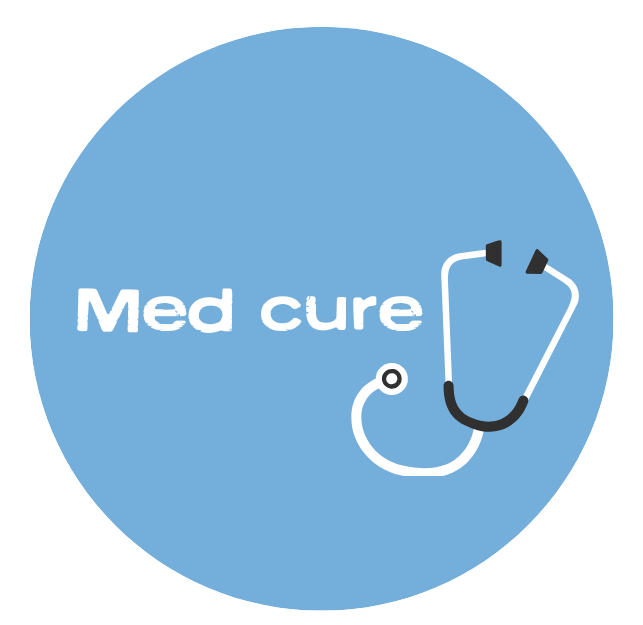
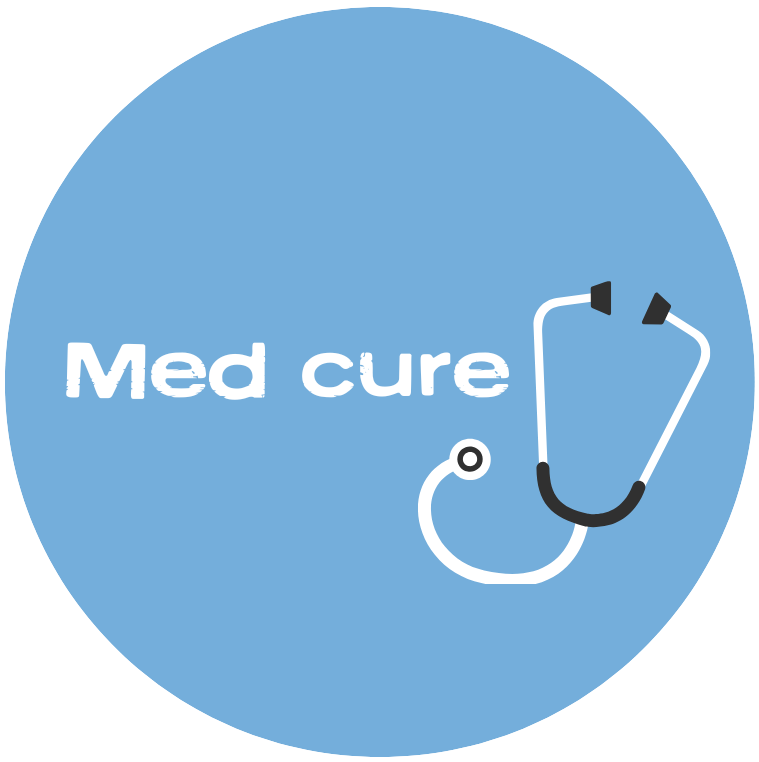
salvandoprojetooodnv

Changed region(s): [[0.0, 0.0, 0.9953, 1.0], [0.5288, 0.5776, 0.6532, 0.7296], [0.591, 0.7296, 0.6221, 0.76]]

diff --git a/projeto_02/src/app/components/Header/header.module.css b/projeto_02/src/app/components/Header/header.module.css
@@ -1,79 +1,48 @@
-.logo{
-    display: flex;
-    margin-left: 30px;
-}
 
 .imagem{
     border-radius: 35px;
     margin-top: 20px;
-}
-
-.meuHeader{
-    margin-top: 10px;
-    display: flex;
-    justify-content: center;
-    background-color: var(--cor-de-fundo-menu);
-    padding:10px 15px;
-    position: relative;
-    text-align: center;
+    margin-bottom: 20px;
 }
 
 .Pegatudo{
-    text-align: center;
-    background-color: rgb(127, 229, 255);
+    padding-left: 20px;
+    display: flex;
+    background-color: rgb(73, 134, 192);
 }
 
 /* NAVEGAÇÃO*/
 .nav{
     display: flex;
-    align-items: center;
-    text-align: center;
-    transition: all 0.5s ease;
-    transform: translateY(-10px);
-    opacity: 1;
-    visibility: visible;
-    transform: translateY(0); 
-    flex-direction: row;
+    justify-content: center;
 
-}    
-.nav_active{
-    /* */
-    display: none;
 }
 
 .ul{
+    margin-top: 20px;
     display: flex;
-    padding: 0;
-    text-align: center;
-    flex-direction: row;
-    gap: 2rem;
-    padding-left: 0px;
-    margin-bottom: 10px;
+    justify-items: center;
 }
 .li{
-    list-style-type: none;
-    text-align: center;
     display: flex;
-    margin-left: 450px;
-    justify-content: center;
-    justify-items: center;
-    margin-bottom: 20px;
+    margin-left: 50px;
+    margin-bottom: 10px;
 }
 .link{
-    color: rgb(36, 88, 184);
+    color: rgb(28, 58, 116);
     font-weight: 700;
     transition: color 0.3s ease;
     font-size: 17px;
-    text-align: center;
+    display: flex;
 }
 .link:hover{
-    color: #444baf;
+    color: #b0b8c4;
 }
+
 .container_menuMenor{
-    display: none;
+    display: flex;
     cursor: pointer;
     font-size: 2rem;
-
 }
 
 @media(max-width:600px){
@@ -83,11 +52,8 @@
      }
     .nav_active{
         display: flex;
-        text-align: center;
         visibility: visible;
         transform: none;
-        flex-direction: column;
-        position: absolute;
         top: 40px;
         right: 0;
         width: 50%;
@@ -99,13 +65,9 @@
         visibility: visible;
         transform: translateY(0); 
     }
-    /* .nav_active{
-        display: flex;
-    } */
+
     .ul{
         display: flex;
-        flex-direction: column;
-        position: absolute;
         top: 1rem;
         left: 0px;
         width: 100%;
@@ -115,7 +77,7 @@
         margin: 0 auto;
     }
     .container_menuMenor{
-        display: block;
+        display: flex;
     }
     
 }

diff --git a/projeto_02/src/app/components/Header/index.js b/projeto_02/src/app/components/Header/index.js
@@ -8,13 +8,13 @@ export default function Header() {
         <header className={style.DivMenu}>
             <div className={style.Pegatudo}>
             <div className={style.Divlogo}>
-                    <Image className={style.imagem} src="/images/Med cure.png" alt="Imagem style" width={75} height={75}/>
+                    <Image className={style.imagem} src="/images/Med cure.png" alt="Imagem style" width={100} height={100}/>
             </div>
             <nav >
                 <ul className={style.ul}>
                     <div>
                         <li className={style.li}><Link className={style.link} href="/">Home</Link></li>
-                        <li className={style.li}><Link className={style.link} href="/medico">Médicos</Link></li>
+                        <li className={style.li}><Link className={style.link} href="/medicos">Médicos</Link></li>
                         <li className={style.li}><Link className={style.link} href="/">Pacientes</Link></li>
                         <li className={style.li}><Link className={style.link} href="/">Consultas</Link></li>
                     </div>

diff --git a/projeto_02/src/app/page.js b/projeto_02/src/app/page.js
@@ -3,10 +3,18 @@ import style from "./page.module.css";
 export default function Home() {
   return (
     <main>
-        <div className={style.DivMenu}>
-        <h1 className={style.h1}>Projeto Front e Back</h1>
-        <p className={style.paragrafo}>Primeira Página</p>
+      <div className={style.DivPegaTudo}>
+      <div className={style.DivMenu}>
+        <h1 className={style.h1}>Bem-vindo à Clínica Vida Saudável</h1>
+        <p className={style.paragrafo}>
+          Nossa equipe de profissionais altamente qualificados 
+          está pronta para cuidar da sua saúde com dedicação e excelência.
+          Oferecemos um atendimento humanizado, 
+          tecnologia de ponta e uma ampla gama de especialidades 
+          médicas para garantir seu bem-estar.</p>
         </div>
+      </div>
+        
     </main>
   );
 }

diff --git a/projeto_02/src/app/medicos/medico.js b/projeto_02/src/app/medicos/medico.js
@@ -1,7 +1,18 @@
 'use client'
 import { useEffect } from 'react';
-import styles from './medicos.module.css';
+import style from './medicos.module.css';
 
-export default function Medico(){
-    
-}
+export default function Médicos() {
+    return (
+      <main>
+        <div className={style.DivMenu}>
+        <h1 className={style.h1_titulo}>Lista de Médicos</h1>
+        <div className={style.DivTable}>
+            <table>
+                <td></td>
+            </table>
+        </div>
+        </div>
+      </main>
+    );
+  }

diff --git a/projeto_02/src/app/page.module.css b/projeto_02/src/app/page.module.css
@@ -6,15 +6,16 @@
   background-color: rgb(255, 255, 255);
 }
 .DivLogo{
-  width: 10px;
+  margin-top: 20px;
+  text-align: right;
 }
 
 .paragrafo{
   margin-top: 10px;
   text-align: center;
-
 }
 
 .h1{
+  margin-top: 50px;
   text-align: center;
 }

diff --git a/projeto_02/src/app/medicos/medicos.module.css b/projeto_02/src/app/medicos/medicos.module.css
@@ -1,0 +1,9 @@
+.h1_titulo{
+    color: black;
+    margin-top: 20px;
+}
+
+.paragrafo{
+    margin-top: 10px;
+    text-align: center;
+}
